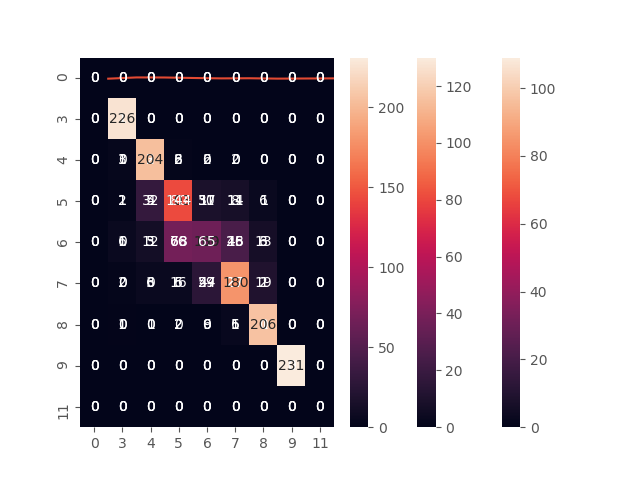
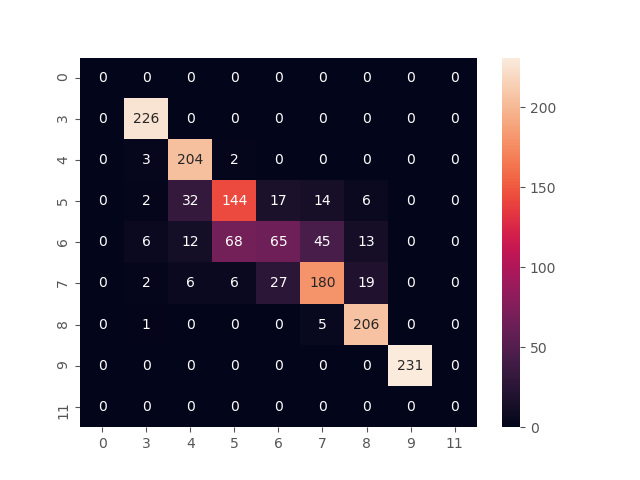
result image update

diff --git a/KNN_new.py b/KNN_new.py
@@ -72,6 +72,7 @@ def knn_untouched(X, y, K, test_ratio=0.2,filename="knn_untouched.png"):
     print("Classification report: \n", classification_report(y_test, y_pred))
     print("Training accuracy: ", metrics.accuracy_score(y_test, y_pred))
     plt.savefig(filename)
+    plt.clf()
 
 def knn(X, y, K, test_ratio=0.2,filename = 'knn.png'):
     X_train, X_test, y_train, y_test = train_test_split(
@@ -94,6 +95,7 @@ def knn(X, y, K, test_ratio=0.2,filename = 'knn.png'):
     print("Classification report: \n", classification_report(y_test, y_pred))
     print("Training accuracy: ", metrics.accuracy_score(y_test, y_pred))
     plt.savefig(filename)
+    plt.clf()
 
 
 def knn_with_cross_validation(X, y, K, T, test_ratio=0.2):
@@ -135,6 +137,7 @@ def knn_with_gridSearchCV(X, y, K, T, R1, R2,test_ratio=0.2,filename='knn_with_g
           (best_line['mean_test_score'], best_line['std_test_score'] * 2, best_line['param_knn__n_neighbors']))
           
     plt.savefig(filename,dpi=fig.dpi)
+    plt.clf()
 
 if __name__ == "__main__":
     # Clean CSV - only run once to create a clean CSV file.
